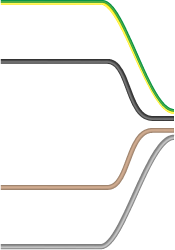
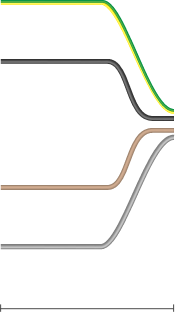
Inserite quote e posizionate

Changed region(s): [[0.0, 0.0, 1.0, 1.0]]

diff --git a/fmprevent-plugin/prev.css b/fmprevent-plugin/prev.css
@@ -49,17 +49,17 @@
 
 .free-cables-3{
 	top:140px;
-	height:132px;
+	height:198px;
 }
 
 .free-cables-4{
 	top:81px;
-	height:250px;
+	height:315px;
 }
 
 .free-cables-5{
 	top:81px;
-	height:250px;
+	height:315px;
 }
 
 .conn-r .conn-selector{
@@ -103,28 +103,42 @@
 	height:21px;
 }
 
-.free-cables-r .cable-sgua{
+.free-cables-3.free-cables-r .cable-sgua{
 	position:absolute;
-	top:120px;
-	left:-120px;
+	top:200px;
+	left:35px;
 }
 
-.free-cables-l .cable-sgua{
+.free-cables-3.free-cables-l .cable-sgua{
 	position:absolute;
-	top:120px;
-	right:-120px;
+	top:200px;
+	right:35px;
 }
 
-.free-cables-4 .cable-sgua{
-
-	top:185px;
+.free-cables-4.free-cables-r .cable-sgua{
+	position:absolute;
+	top:315px;
+	left:35px;
 }
 
-.free-cables-5 .cable-sgua{
-
-	top:185px;
-	
+.free-cables-4.free-cables-l .cable-sgua{
+	position:absolute;
+	top:315px;
+	right:35px;
 }
+
+.free-cables-5.free-cables-r .cable-sgua{
+	position:absolute;
+	top:315px;
+	left:35px;
+}
+
+.free-cables-5.free-cables-l .cable-sgua{
+	position:absolute;
+	top:315px;
+	right:35px;
+}
+
 
 .free-cables-r .conn-container{
 	left:175px;
@@ -206,9 +220,10 @@ position:absolute;top:236px;left:0px
 }
 
 #cable-length{
-	right:100px;
-	top:-100px;
+	right: -174px;
+	top: -170px;
 	position:absolute;
+	text-align: center;
 }
 
 #cable-sig-r{

diff --git a/fmprevent-plugin/js/prevent.js b/fmprevent-plugin/js/prevent.js
@@ -30,7 +30,8 @@ Backbone.Model.prototype.toJSON = function() {
       
 };
 
-   FMPrevent.Templates.Cable=Handlebars.compile('<div id="cable-body" ><div id="cable-length">Lunghezza(mm):<input type="text" placeholder="lunghezza" value="{{t_length}}"></div>'+
+   FMPrevent.Templates.Cable=Handlebars.compile('<div id="cable-body" ><div id="cable-length">Lunghezza(mm):<input type="text" placeholder="lunghezza" value="{{t_length}}">'+
+    '<img src="'+ajax_object.siteurl+'/wp-content/plugins/fmprevent-plugin/images/lunghezza_cavo.png"></div>'+
       '<input type="text" id="cable-sig-r" placeholder="siglatura dx" size="12" value="{{label_r}}"> <input type="text" id="cable-sig-l" placeholder="siglatura sx" size="12" value="{{label_l}}">'+
   '<img src="'+ajax_object.siteurl+'/wp-content/plugins/fmprevent-plugin/images/cavo_blu.png" >'+
   '<input type="text" id="cable-type" placeholder="tipo cavo" value="{{type}}"></div>');
